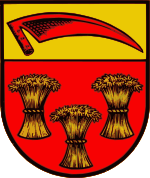
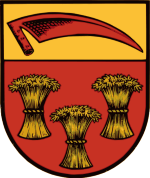
recolor wappen, top nav style (mobile)

diff --git a/partials/styles/_topnav.scss b/partials/styles/_topnav.scss
@@ -55,11 +55,6 @@ $color-hover-and-focus: lighten($color-active, 10%);
         border: 0;
       }
     }
-
-    &:hover,
-    &.active {
-      color: $color-active;
-    }
   }
 }
 
@@ -74,7 +69,7 @@ $color-hover-and-focus: lighten($color-active, 10%);
   & > ul {
     color: $text-color;
     font-size: $font-size-base;
-    font-weight: 700;
+    font-weight: 400;
     display: block;
     list-style: none;
     padding: 0;
@@ -98,6 +93,13 @@ $color-hover-and-focus: lighten($color-active, 10%);
       position: relative;
       display: block;
       min-width: 100%;
+    }
+
+    li {
+      &:hover,
+      &.active {
+        color: $color-red;
+      }
     }
   }
 
@@ -279,6 +281,10 @@ $color-hover-and-focus: lighten($color-active, 10%);
           &:hover {
             color: $color-red;
           }
+        }
+
+        &.active {
+          color: $color-red;
         }
       }
     }

diff --git a/partials/styles/_global-variables.scss b/partials/styles/_global-variables.scss
@@ -1,6 +1,6 @@
 // colors
-$color-red: #f70203;
-$color-yellow: #ebc904;
+$color-red: #c73123;
+$color-yellow: #fbc034;
 $color-light-grey: #f5f5f5;
 $gray-base: #333;
 $gray-light: #999;
